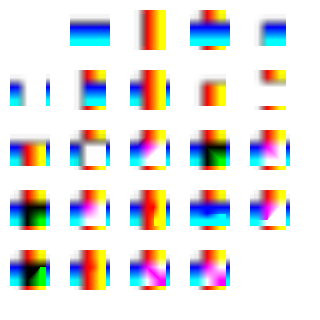
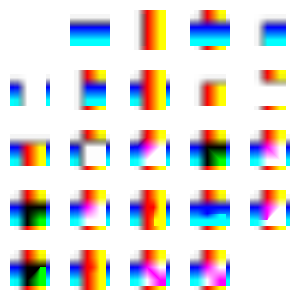
Refactor composite_test

diff --git a/examples/composite_test.rs b/examples/composite_test.rs
@@ -1,56 +1,95 @@
 use nanachi::{
+    buffer::GenericBuffer,
     compositor,
     context::{Context, FillStyle},
     draw_image::draw_image_pixel_perfect,
     fill_color, fill_rule,
-    image::{ImageBuffer, Rgba},
+    image::RgbaImage,
     matrix::Matrix,
     path_builder::PathBuilder,
+    pixel::Pixel,
 };
 
 fn main() {
-    let (width, height) = (320, 320);
-    let mut img = ImageBuffer::from_pixel(width, height, Rgba([250u8, 250, 250, 0]));
+    gen("./composite_test_f32.png", |r: u8, g: u8, b: u8, a: u8| {
+        nanachi::pixel::Rgba([
+            r as f32 / 255.0,
+            g as f32 / 255.0,
+            b as f32 / 255.0,
+            a as f32 / 255.0,
+        ])
+    });
 
-    let mut i = 0;
-    let mut inc = || {
-        i += 1;
-        i - 1
-    };
-    f(&mut img, inc(), compositor::Clear);
-    f(&mut img, inc(), compositor::Src);
-    f(&mut img, inc(), compositor::Dst);
-    f(&mut img, inc(), compositor::SrcOver);
-    f(&mut img, inc(), compositor::SrcIn);
-    f(&mut img, inc(), compositor::SrcOut);
-    f(&mut img, inc(), compositor::SrcAtop);
-    f(&mut img, inc(), compositor::DstOver);
-    f(&mut img, inc(), compositor::DstIn);
-    f(&mut img, inc(), compositor::DstOut);
-    f(&mut img, inc(), compositor::DstAtop);
-    f(&mut img, inc(), compositor::Xor);
-    f(&mut img, inc(), compositor::Add);
-    f(&mut img, inc(), compositor::Darken);
-    f(&mut img, inc(), compositor::Lighten);
-    f(&mut img, inc(), compositor::Multiply);
-    f(&mut img, inc(), compositor::Screen);
-    f(&mut img, inc(), compositor::Overlay);
-    f(&mut img, inc(), compositor::HardLight);
-    f(&mut img, inc(), compositor::Dodge);
-    f(&mut img, inc(), compositor::Burn);
-    f(&mut img, inc(), compositor::SoftLight);
-    f(&mut img, inc(), compositor::Difference);
-    f(&mut img, inc(), compositor::Exclusion);
+    gen(
+        "./composite_test_premultiplied_f32.png",
+        |r: u8, g: u8, b: u8, a: u8| -> nanachi::pixel::PremultipliedRgba {
+            nanachi::pixel::Rgba([
+                r as f32 / 255.0,
+                g as f32 / 255.0,
+                b as f32 / 255.0,
+                a as f32 / 255.0,
+            ])
+            .into()
+        },
+    );
 
-    let res = img.save("./composite_test.png");
+    gen("./composite_test.png", |r: u8, g: u8, b: u8, a: u8| {
+        image::Rgba([r, g, b, a])
+    });
+}
+
+fn gen<P: Pixel>(name: &str, rgba: fn(u8, u8, u8, u8) -> P)
+where
+    compositor::Basic: compositor::Compositor<P>,
+    for<'a> &'a GenericBuffer<P>: Into<RgbaImage>,
+{
+    let (width, height) = (300, 300);
+    let mut img = GenericBuffer::from_pixel(width, height, rgba(250, 250, 250, 0));
+
+    let cs = [
+        compositor::Basic::Clear,
+        compositor::Basic::Src,
+        compositor::Basic::Dst,
+        compositor::Basic::SrcOver,
+        compositor::Basic::SrcIn,
+        compositor::Basic::SrcOut,
+        compositor::Basic::SrcAtop,
+        compositor::Basic::DstOver,
+        compositor::Basic::DstIn,
+        compositor::Basic::DstOut,
+        compositor::Basic::DstAtop,
+        compositor::Basic::Xor,
+        compositor::Basic::Add,
+        compositor::Basic::Darken,
+        compositor::Basic::Lighten,
+        compositor::Basic::Multiply,
+        compositor::Basic::Screen,
+        compositor::Basic::Overlay,
+        compositor::Basic::HardLight,
+        compositor::Basic::Dodge,
+        compositor::Basic::Burn,
+        compositor::Basic::SoftLight,
+        compositor::Basic::Difference,
+        compositor::Basic::Exclusion,
+    ];
+
+    for (i, c) in cs.iter().enumerate() {
+        f(&mut img, i, c.clone(), rgba);
+    }
+
+    let img: RgbaImage = (&img).into();
+    let res = img.save(name);
     println!("save: {:?}", res);
 }
 
-fn f<C: compositor::Compositor<Rgba<u8>> + 'static>(
-    img: &mut ImageBuffer<Rgba<u8>, Vec<u8>>,
+fn f<P: Pixel>(
+    img: &mut GenericBuffer<P>,
     i: usize,
-    c: C,
-) {
+    c: compositor::Basic,
+    rgba: fn(u8, u8, u8, u8) -> P,
+) where
+    compositor::Basic: compositor::Compositor<P>,
+{
     let mut pb = PathBuilder::new();
     pb.move_to(-16.0, -20.0);
     pb.line_to(16.0, -20.0);
@@ -62,22 +101,22 @@ fn f<C: compositor::Compositor<Rgba<u8>> + 'static>(
         (-16.0, 0.0),
         (16.0, 0.0),
         vec![
-            (0.1, Rgba([255, 0, 0, 10])),
-            (0.4, Rgba([255, 0, 0, 255])),
-            (0.8, Rgba([255, 255, 0, 255])),
+            (0.1, rgba(255, 0, 0, 10)),
+            (0.4, rgba(255, 0, 0, 255)),
+            (0.8, rgba(255, 255, 0, 255)),
         ],
     );
     let fc2 = fill_color::LinearGradient::new(
         (-16.0, 0.0),
         (16.0, 0.0),
         vec![
-            (0.1, Rgba([0, 0, 255, 10])),
-            (0.4, Rgba([0, 0, 255, 255])),
-            (0.8, Rgba([0, 255, 255, 255])),
+            (0.1, rgba(0, 0, 255, 10)),
+            (0.4, rgba(0, 0, 255, 255)),
+            (0.8, rgba(0, 255, 255, 255)),
         ],
     );
 
-    let mut context = Context::from_pixel(60, 60, Rgba([250, 250, 250, 0]));
+    let mut context = Context::from_pixel(60, 60, rgba(250, 250, 250, 0));
 
     context
         .transformed_context(&Matrix::new().translate(20.0, 20.0))
@@ -85,7 +124,7 @@ fn f<C: compositor::Compositor<Rgba<u8>> + 'static>(
             &path,
             &FillStyle {
                 color: fc1,
-                compositor: compositor::SrcOver,
+                compositor: compositor::Basic::SrcOver,
                 fill_rule: fill_rule::EvenOdd,
                 pixel: Default::default(),
             },
@@ -112,7 +151,7 @@ fn f<C: compositor::Compositor<Rgba<u8>> + 'static>(
         &context.image,
         [x, y],
         [0, 0],
-        [60, 60],
-        &compositor::Src,
+        [50, 50],
+        &compositor::Basic::Src,
     );
 }

diff --git a/src/context.rs b/src/context.rs
@@ -25,7 +25,7 @@ pub struct FillStyle<P, FC, C, FR>
 where
     P: Pixel,
     FC: FillColor<P>,
-    C: Compositor<P> + 'static,
+    C: Compositor<P>,
     FR: FillRule,
 {
     pub color: FC,
@@ -38,7 +38,7 @@ impl<P, FC, C, FR> FillStyle<P, FC, C, FR>
 where
     P: Pixel,
     FC: FillColor<P>,
-    C: Compositor<P> + 'static,
+    C: Compositor<P>,
     FR: FillRule,
 {
     pub fn new(color: FC, compositor: C, fill_rule: FR) -> Self {

diff --git a/src/writer.rs b/src/writer.rs
@@ -13,7 +13,7 @@ where
     P: Pixel,
     B: Buffer<P>,
     F: FillColor<P>,
-    C: Compositor<P> + 'static,
+    C: Compositor<P>,
 {
     let composite = compositor.composite_with_alpha();
 
